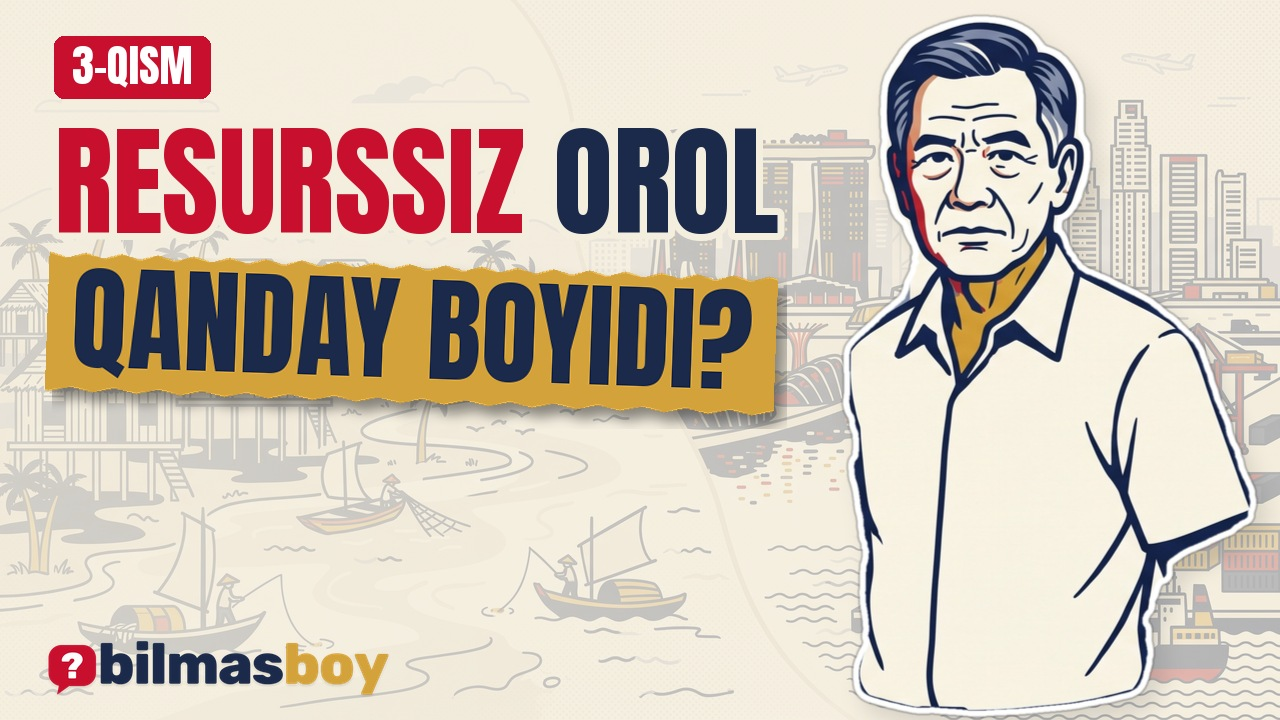
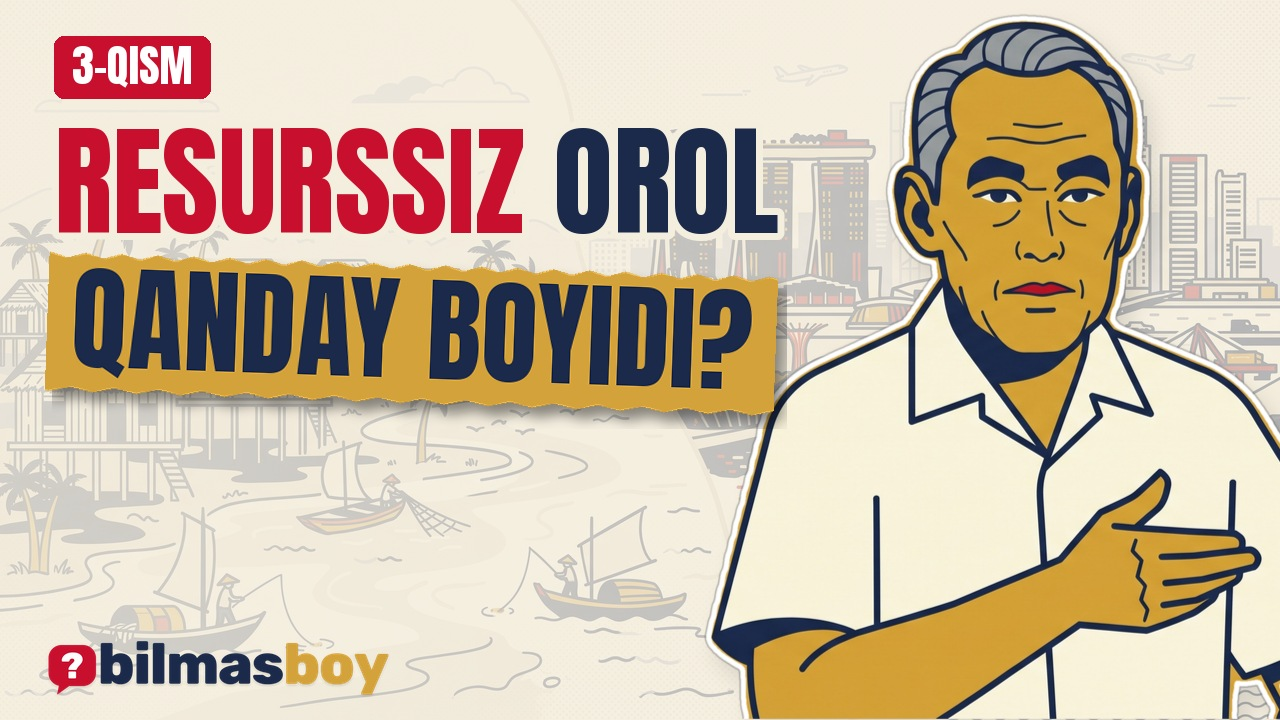
E03: props show at scene start; thumbnails use new portrait
Claude-Session: https://claude.ai/code/session_01TTj3pz5kJigGcTv2LnVXDa

Changed region(s): [[0.5312, 0.0, 1.0, 1.0]]

diff --git a/projects/ep03-singapore/make_beats.py b/projects/ep03-singapore/make_beats.py
@@ -97,14 +97,14 @@ beat([53, "Ish"], "scene", bg="bg_factories", crop="left",
 beat([54, "Ikkinchi"], "scene", bg="bg_anticorruption", mood="dramatic", ev=[L([54, "Ikkinchi"], "2. KORRUPSIYAGA QARSHI"), T([55, "yemiradi"], "KORRUPSIYA ICHIDAN YEMIRADI", True)])
 beat([56, "Korrupsiyani"], "scene", bg="bg_anticorruption", crop="right", ev=[T([56, "byuro"], "KORRUPSIYA BYUROSI"), T([57, "daromadidan"], "DAROMADDAN ORTIQ BOYLIK = DALIL", True)])
 beat([58, "Hatto"], "scene", bg="bg_minister", mood="dramatic", ev=[ST([58, "vazirlar"], "VAZIRLAR HAM")])
-beat([59, "Shu"], "object", props=[P([59, "maosh"], "prop_gold", .3, .5, .42)], ev=[T([59, "maosh"], "YUQORI MAOSH", x=.3, y=.82),
+beat([59, "Shu"], "object", props=[P([59, "Shu"], "prop_gold", .3, .5, .42)], ev=[T([59, "maosh"], "YUQORI MAOSH", x=.3, y=.82),
      T([60, "halol"], "HALOLGA: YAXSHI HAQ", x=.7, y=.4), T([60, "jazola"], "PORAXO'RGA: QATTIQ JAZO", True, x=.7, y=.58)])
 beat([61, "Bugungacha"], "scene", bg="bg_singapore", crop="right", ev=[F([61, "Singapur"], "sg"), T([61, "kam"], "ENG KAM KORRUPSIYALI DAVLATLAR QATORIDA")])
 beat([62, "Uchinchi"], "scene", bg="bg_hdb", mood="calm", ev=[L([62, "Uchinchi"], "3. UY-JOY"), T([63, "kengashi"], "1960 · UY-JOY KENGASHI"),
      T([64, "ko'p"], "MINGLAB KO'P QAVATLI UYLAR")])
-beat([65, "Eng"], "object", props=[P([65, "sotib"], "prop_key", .3, .5, .5, slam=True)], ev=[T([65, "ijaraga"], "IJARA EMAS", x=.7, y=.4),
+beat([65, "Eng"], "object", props=[P([65, "Eng"], "prop_key", .3, .5, .5, slam=True)], ev=[T([65, "ijaraga"], "IJARA EMAS", x=.7, y=.4),
      T([65, "sotib"], "SOTIB OLISH", True, x=.7, y=.58)])
-beat([66, "Buning"], "object", props=[P([66, "maoshidan"], "prop_gold", .25, .5, .38)], ev=[T([66, "majburiy"], "MAJBURIY JAMG'ARMA", x=.25, y=.82),
+beat([66, "Buning"], "object", props=[P([66, "Buning"], "prop_gold", .25, .5, .38)], ev=[T([66, "majburiy"], "MAJBURIY JAMG'ARMA", x=.25, y=.82),
      AR([67, "hisobidan"], (.4, .5), (.62, .5), True), PR([67, "uyini"], "prop_key", .78, .5, .38)])
 beat([68, "Bugun"], "scene", bg="bg_hdb", crop="right",
      ev=[{"at": [68, "sakkiztasi"], "k": "pie", "x": .3, "y": .55, "r": .22, "slices": [{"label": "DAVLAT UYLARIDA", "value": 80}, {"label": "BOSHQA", "value": 20}]},
